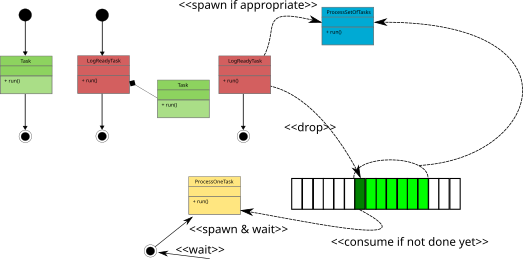
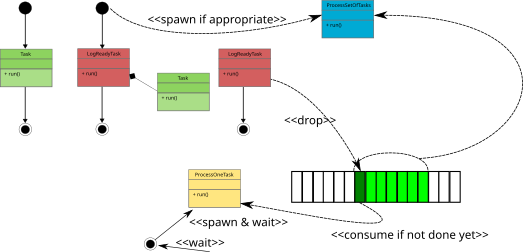
Finished docu

diff --git a/src/tarch/multicore/taskfusion/taskfusion.cpp b/src/tarch/multicore/taskfusion/taskfusion.cpp
@@ -99,8 +99,8 @@ void tarch::multicore::taskfusion::handleFusableTask(
         handleFusableTask_LazyEvaluation(task, *taskQueue, inDependencies, taskNumber, instruction);
         handleFusableTask_EagerConsumerTasks(task, *taskQueue, inDependencies, taskNumber, instruction);
         break;
-      case tarch::multicore::orchestration::FusionImplementation::ProducerConsumerTaskPairs:
-        handleFusableTask_ProducerConsumerTaskPairs(task, *taskQueue, inDependencies, taskNumber, instruction);
+      case tarch::multicore::orchestration::FusionImplementation::ProducerConsumerTaskSequence:
+        handleFusableTask_ProducerConsumerTaskSequence(task, *taskQueue, inDependencies, taskNumber, instruction);
         break;
     }
   }
@@ -150,7 +150,7 @@ void tarch::multicore::taskfusion::handleFusableTask_EagerConsumerTasks(
 }
 
 
-void tarch::multicore::taskfusion::handleFusableTask_ProducerConsumerTaskPairs(
+void tarch::multicore::taskfusion::handleFusableTask_ProducerConsumerTaskSequence(
   Task*                  task,
   FusableTasksQueue&     taskQueue,
   std::set<TaskNumber>   inDependencies,
@@ -227,7 +227,7 @@ void tarch::multicore::taskfusion::processAndFuseAllReadyTasks() {
 bool tarch::multicore::taskfusion::ensureHeldBackTasksAreMappedOntoNativeTasks(const std::set<TaskNumber>& taskNumbers) {
   assertion1( not taskNumbers.empty(), taskNumbers.size() );
   switch (tarch::multicore::getOrchestration().getFusionImplementation()) {
-    case tarch::multicore::orchestration::FusionImplementation::ProducerConsumerTaskPairs:
+    case tarch::multicore::orchestration::FusionImplementation::ProducerConsumerTaskSequence:
       return true;
     case tarch::multicore::orchestration::FusionImplementation::DisableFusionAndProcessImmediately:
       return false;
@@ -236,9 +236,6 @@ bool tarch::multicore::taskfusion::ensureHeldBackTasksAreMappedOntoNativeTasks(c
     case tarch::multicore::orchestration::FusionImplementation::LazyEvaluation:
       return ensureHeldBackTasksAreMappedOntoNativeTasks_LazyEvaluation( taskNumbers );
     case tarch::multicore::orchestration::FusionImplementation::EagerConsumerTasks:
-      // @todo da ist ein Denkfehler
-      //ensureHeldBackTasksAreMappedOntoNativeTasks_EnsureAllTasksAreRunningReadyOrHaveCompleted( taskNumbers );
-      native::waitForTasks(taskNumbers);
       return ensureHeldBackTasksAreMappedOntoNativeTasks_EagerConsumerTasks( taskNumbers );
   }
 
@@ -262,7 +259,11 @@ bool anyTasksOfInDendenciesMightBeStillReadyOrRunning(const std::set<tarch::mult
 
 
 bool tarch::multicore::taskfusion::ensureHeldBackTasksAreMappedOntoNativeTasks_EagerConsumerTasks(const std::set<TaskNumber>& inDependencies) {
+  logTraceInWith1Argument( "ensureHeldBackTasksAreMappedOntoNativeTasks_LazyEvaluation(std::set)", inDependencies.size() );
+
   assertion1( not inDependencies.empty(), inDependencies.size() );
+
+  native::waitForTasks(inDependencies);
 
   bool result = false;
 
@@ -282,6 +283,8 @@ bool tarch::multicore::taskfusion::ensureHeldBackTasksAreMappedOntoNativeTasks_E
       }
     }
   }
+
+  logTraceOutWith1Argument( "ensureHeldBackTasksAreMappedOntoNativeTasks_LazyEvaluation(std::set)", result );
 
   return result;
 }

diff --git a/src/tarch/multicore/taskfusion/taskfusion.h b/src/tarch/multicore/taskfusion/taskfusion.h
@@ -177,7 +177,7 @@ namespace tarch {
       void processAndFuseAllReadyTasks();
 
       /**
-       * Realisation for handleFusableTask() for ProducerConsumerTaskPairs
+       * Realisation for handleFusableTask() for ProducerConsumerTaskSequence
        *
        * Translate a single task into a sequence of (fusable tasks)
        *
@@ -230,7 +230,7 @@ namespace tarch {
        * tasks. So it makes sense to serialise the ProcessReadyTask instances
        * if there are less than two times the max tasks in the queue.
        */
-      void handleFusableTask_ProducerConsumerTaskPairs(
+      void handleFusableTask_ProducerConsumerTaskSequence(
         Task*                  task,
         FusableTasksQueue&     taskQueue,
         std::set<TaskNumber>   inDependencies,
@@ -265,7 +265,11 @@ namespace tarch {
       );
 
       /**
+       * Handle a task in the eager consumer pattern
        *
+       * This routine has to be used in combination with handleFusableTask_LazyEvaluation().
+       * It does, different as the name suggests, not enqueue any task. Instead, it simply
+       * evaluates if the task queue is ready for a fusion task. If so, it spawns one.
        */
       void handleFusableTask_EagerConsumerTasks(
         Task*                  task,
@@ -408,11 +412,12 @@ namespace tarch {
       /**
        * Preamble of waitForTasks() if we use EagerEvaluation.
        *
-       * This routine is very similar to ensureHeldBackTasksAreMappedOntoNativeTasks_LazyEvaluation()
+       * This routine is very similar to ensureHeldBackTasksAreMappedOntoNativeTasks_LazyEvaluation(),
        * besides the fact that it never ever spawns a fusion task. If the eager
        * scheme results in fusion tasks, then these fusion tasks have already
        * been created by the time we spawned the tasks. We don't create them by
-       * the time we wait for a task.
+       * the time we wait for a task. So we should say: "it is a degenerated
+       * version of ensureHeldBackTasksAreMappedOntoNativeTasks_LazyEvaluation()".
        */
       bool ensureHeldBackTasksAreMappedOntoNativeTasks_EagerConsumerTasks(const std::set<TaskNumber>& inDependencies);
     } // namespace taskfusion

diff --git a/src/tarch/multicore/orchestration/Strategy.h b/src/tarch/multicore/orchestration/Strategy.h
@@ -145,8 +145,8 @@ namespace tarch {
          * waits for enough tasks to be collected. The disadvantage is that it
          * might trigger the fusion rather late.
          *
-         * To understand this routine, it makes sense to study ProducerConsumerTaskPairs
-         * and EagerConsumerTasks, too. Notably ProducerConsumerTaskPairs
+         * To understand this routine, it makes sense to study ProducerConsumerTaskSequence
+         * and EagerConsumerTasks, too. Notably ProducerConsumerTaskSequence
          * provides context about important implementational considerations.
          *
          *
@@ -171,7 +171,7 @@ namespace tarch {
          * tasks) with dependencies that can be fused, we split this task up
          * into three logical tasks:
          *
-         * @image html taskfusion-ProducerConsumerTaskPairs.png
+         * @image html taskfusion-ProducerConsumerTaskSequence.png
          *
          * One task is a preparation task (red), and the other one is the
          * actual processing (yellow). In-between there's a fusion task (blue).
@@ -212,7 +212,7 @@ namespace tarch {
          * @see tarch::multicore::taskfusion::LogReadyTask
          * @see tarch::multicore::taskfusion::ProcessSetOfReadyTasks
          */
-        ProducerConsumerTaskPairs,
+        ProducerConsumerTaskSequence,
 
         /**
          * Issue consumer task that fuses upon spawning a task if the queue is big enough
@@ -238,7 +238,7 @@ namespace tarch {
          * This is the same strategy we followed for the lazy schemes.
          * However, we also check how many tasks are already in there and if
          * this number if big enough, we spawn one of our fusion tasks.
-         * Different to the ProducerConsumerTaskPairs the fusion is not built
+         * Different to the ProducerConsumerTaskSequence the fusion is not built
          * into the DAG right from the start, but the corresopnding task is
          * issued upon demand.
          *

diff --git a/benchmarks/mghype/poisson/benchmarks.py b/benchmarks/mghype/poisson/benchmarks.py
@@ -136,8 +136,9 @@ project.set_multicore_orchestration( """new ::tarch::multicore::orchestration::H
   tarch::multicore::Task::Host,
   ::tarch::multicore::orchestration::Hardcoded::NoNestedParallelism,
 //  ::tarch::multicore::orchestration::FusionImplementation::DisableFusionAndMapOntoNativeTask
-  ::tarch::multicore::orchestration::FusionImplementation::LazyEvaluation
-//  ::tarch::multicore::orchestration::FusionImplementation::EagerConsumerTasks
+//  ::tarch::multicore::orchestration::FusionImplementation::LazyEvaluation
+//  ::tarch::multicore::orchestration::FusionImplementation::ProducerConsumerTaskSequence
+  ::tarch::multicore::orchestration::FusionImplementation::EagerConsumerTasks
 )""" )
 
 

diff --git a/src/tarch/multicore/taskfusion/ProcessOneReadyTask.h b/src/tarch/multicore/taskfusion/ProcessOneReadyTask.h
@@ -24,7 +24,7 @@ namespace tarch {
  * Process one ready tasks
  *
  * @see ProcessSetOfReadyTasks for further implementation remarks
- * @see FusionImplementation::ProducerConsumerTaskPairs for context
+ * @see FusionImplementation::ProducerConsumerTaskSequence for context
  */
 class tarch::multicore::taskfusion::ProcessOneReadyTask: public tarch::multicore::Task {
   private:

diff --git a/src/tarch/multicore/taskfusion/ProcessSetOfReadyTasks.h b/src/tarch/multicore/taskfusion/ProcessSetOfReadyTasks.h
@@ -36,7 +36,7 @@ namespace tarch {
  * ## Performance
  *
  * If we benchmark
- * FusionImplementation::ProducerConsumerTaskPairs, then our performance will
+ * FusionImplementation::ProducerConsumerTaskSequence, then our performance will
  * likely suffer quite a lot. We should, in practice avoid to have to many of
  * these ProcessSetOfReadyTasks instances.
  *
